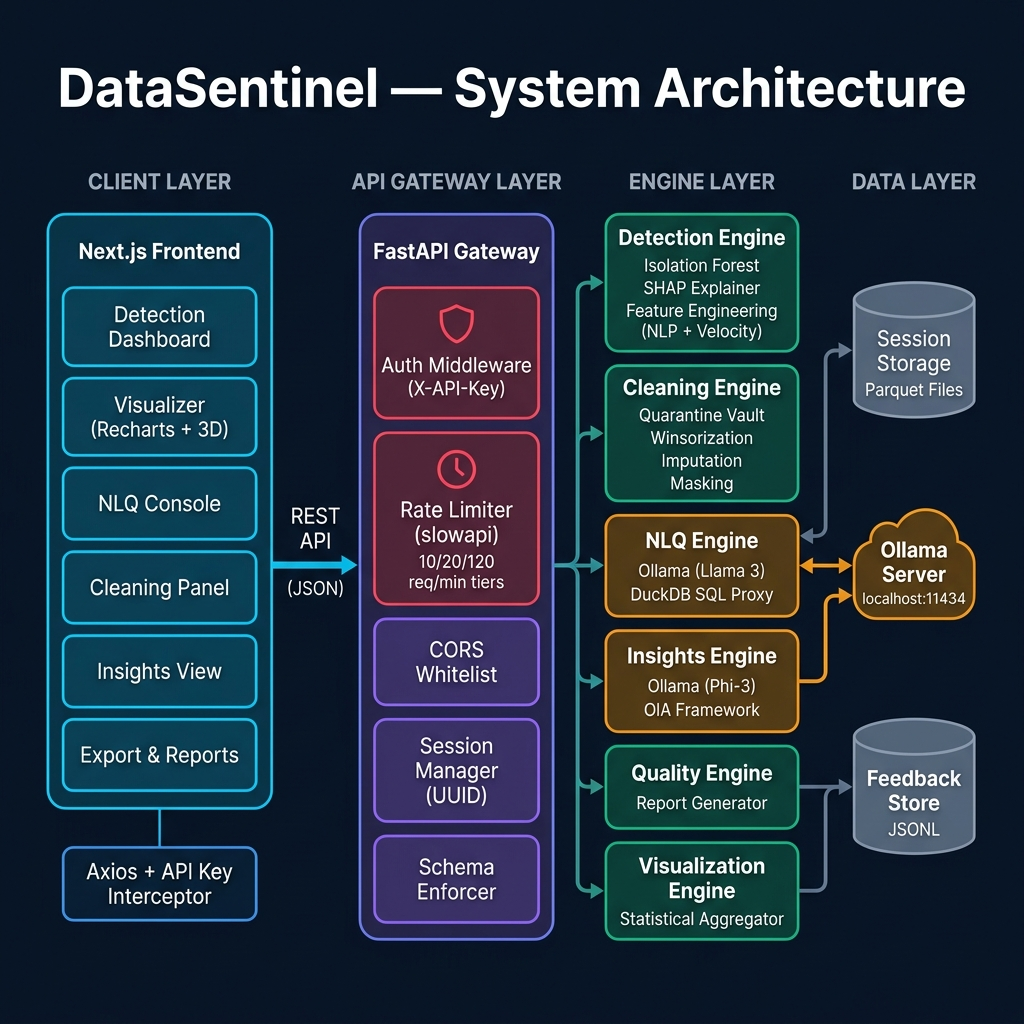
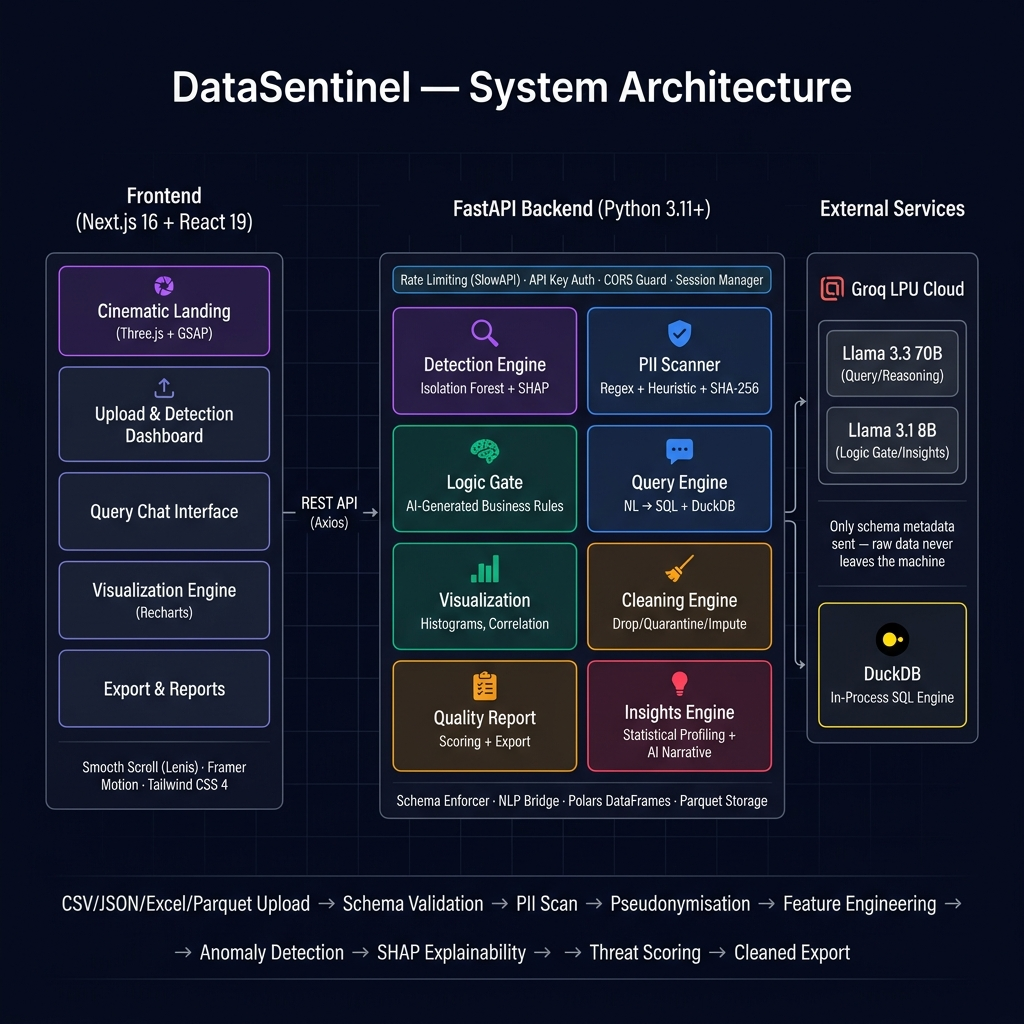
docs: update README with current project structure, add system architecture diagram

diff --git a/README.md b/README.md
@@ -37,7 +37,7 @@
 | **💬 Natural Language Query** | Ask questions in plain English — DataSentinel generates & executes SQL |
 | **📊 Visual Analytics** | Correlation heatmaps, distribution histograms, categorical breakdowns |
 | **📋 Quality Reports** | Exportable data quality scorecards with health metrics |
-| **🎬 Cinematic UI** | GSAP scroll animations, Three.js particle sphere, smooth Lenis scrolling |
+| **🎬 Cinematic UI** | GSAP scroll-driven animations, Three.js PurificationCore & NeuralCore, smooth Lenis scrolling |
 
 ---
 
@@ -162,14 +162,16 @@ The application will be available at **http://localhost:3000**.
 └──────────────────────────────────────────────────────────────────┘
 ```
 
+![System Architecture](frontend/public/architecture.png)
+
 ### Data Flow
 
-1. **Upload** → File parsed (CSV/JSON/Excel) → Schema validation → Parquet storage
-2. **Detection** → Feature engineering → Isolation Forest → SHAP explainability → Threat scoring
-3. **PII Scan** → Regex + heuristic scan → Optional SHA-256 pseudonymisation
+1. **Upload** → File parsed (CSV/JSON/Excel/Parquet) → Schema validation → Parquet storage
+2. **PII Scan** → Regex + heuristic scan → Optional SHA-256 pseudonymisation
+3. **Detection** → NLP feature engineering → Neuro-Symbolic Logic Gate → Isolation Forest → SHAP explainability → Threat scoring
 4. **Insights** → Statistical profiling → Groq LLM narrative generation
-5. **Cleaning** → Drop or quarantine anomalies → Save cleaned dataset
-6. **Query** → Natural language → Groq generates SQL → DuckDB executes
+5. **Cleaning** → Drop, quarantine, winsorize, mask, or impute anomalies → Save cleaned dataset
+6. **Query** → Natural language → Groq generates SQL → DuckDB executes → Self-healing retry loop
 7. **Export** → Quality report generation → CSV download
 
 ---
@@ -184,7 +186,7 @@ DSV2/
 │   ├── schema.py               # Data contract validation (SchemaEnforcer)
 │   ├── utils.py                # Session management, logging utilities
 │   ├── groq_client.py          # Centralized Groq LLM client with retries
-│   ├── core_engine.py          # Shared engine utilities
+│   ├── core_engine.py          # Backward compatibility shim (deprecated)
 │   ├── engines/
 │   │   ├── __init__.py         # Re-exports all engine functions
 │   │   ├── detection.py        # Isolation Forest + SHAP anomaly detection
@@ -219,9 +221,10 @@ DSV2/
 │   │   │   └── globals.css     # Global styles & Tailwind config
 │   │   ├── components/
 │   │   │   ├── landing/
-│   │   │   │   ├── HeroLanding.tsx    # GSAP scroll-driven cinematic intro
-│   │   │   │   ├── DataSphere.tsx     # Three.js particle sphere
-│   │   │   │   └── Scene.tsx          # R3F post-processing scene
+│   │   │   │   ├── HeroLanding.tsx        # GSAP scroll-driven cinematic intro
+│   │   │   │   ├── PurificationCore.tsx   # Three.js data purification animation
+│   │   │   │   ├── NeuralCore.tsx         # Three.js neural network background
+│   │   │   │   └── AmbientAurora.tsx      # CSS ambient aurora backdrop
 │   │   │   ├── detection/      # Anomaly detection results table
 │   │   │   ├── insights/       # AI-generated insights dashboard
 │   │   │   ├── clean/          # Cleaning action panel
